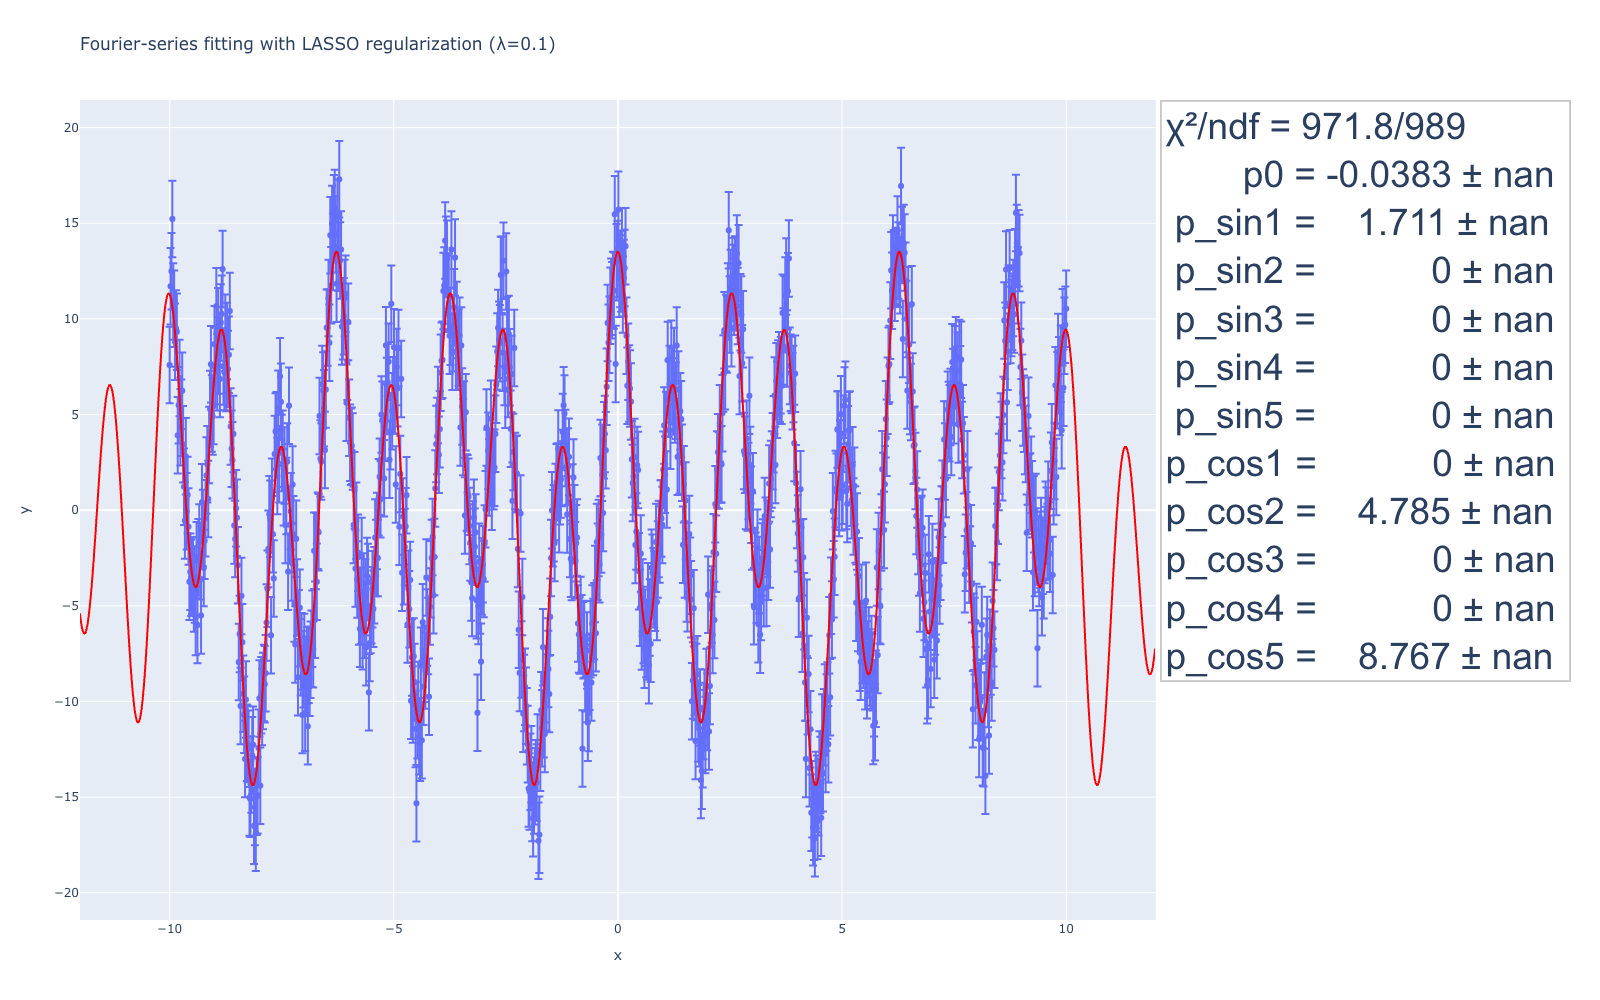
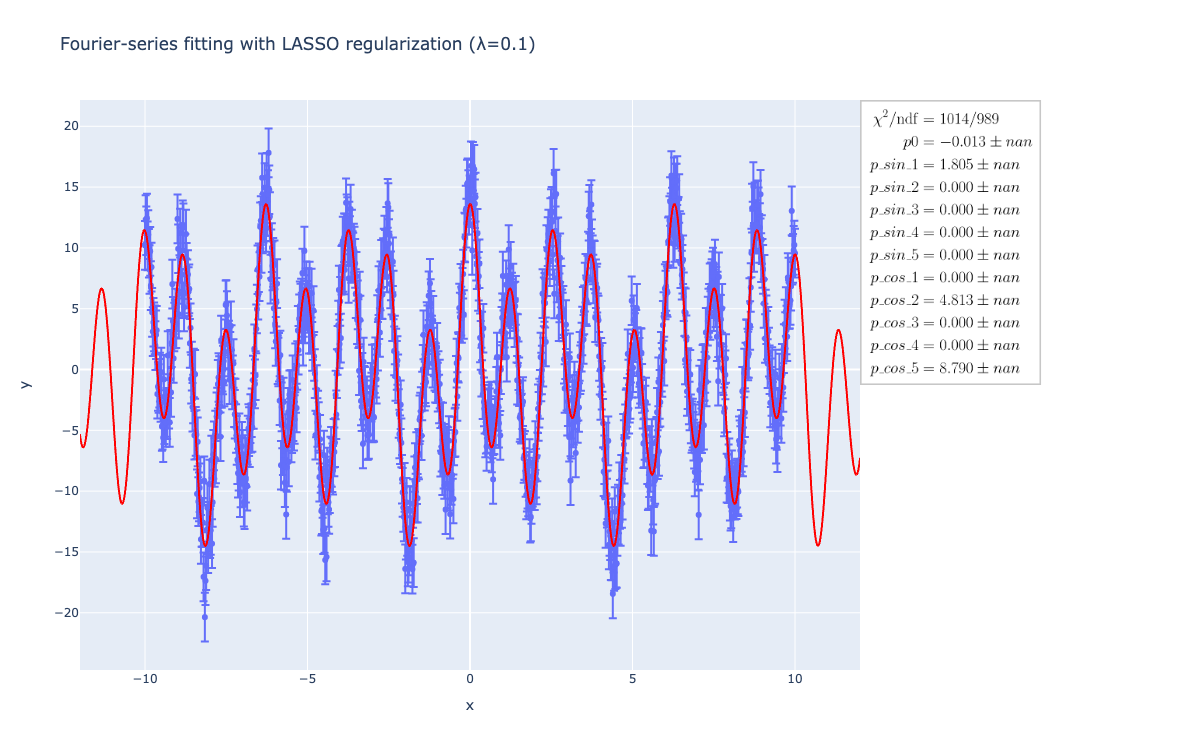
Updated /sample_images/*.png Fixed minor bugs

Changed region(s): [[0.0308, 0.0307, 0.9867, 0.92]]

diff --git a/sample_images/generate_sample_images.py b/sample_images/generate_sample_images.py
@@ -1,0 +1,70 @@
+import numpy as np
+import plotly.express as px
+import standard_fit.plotly.express as sfpx
+import scipy.stats
+
+
+print("y = -2x + 1")
+np.random.seed(1000)
+
+x = np.linspace(-10, 10, 150)
+y_sigma = [2] * len(x)
+y = -2 * x + 1 + np.random.normal(0, y_sigma)
+fig = px.scatter(x=x, y=y, error_y=y_sigma)
+sfpx.fit(fig, "pol1")
+fig.write_image("pol1.png", width=1200, height=750)
+
+
+print("y = 2sin(x) + 5cos(2x) + 9cos(5x)")
+np.random.seed(1000)
+
+x = np.linspace(-10, 10, 1000)
+y_sigma = [2] * len(x)
+y = 2 * np.sin(x) + 5 * np.cos(2 * x) + 9 * np.cos(5 * x) + np.random.normal(0, y_sigma)
+
+fig = px.scatter(title="Fourier-series fitting", x=x, y=y, error_y=y_sigma)
+sfpx.fit(fig, "fourier5", annotation_kwargs=dict(inside=False))
+fig.write_image("fs.png", width=1200, height=750)
+
+fig = px.scatter(title="Fourier-series fitting with LASSO regularization (λ=0.1)", x=x, y=y, error_y=y_sigma)
+sfpx.fit(fig, "fourier5", annotation_kwargs=dict(inside=False),
+         fit_kwargs=dict(linear_regression_kwargs=dict(lasso_lambda=0.1)))
+fig.write_image("fs_lasso.png", width=1200, height=750)
+
+
+print("Gaussian x ~ N(5, 2)")
+np.random.seed(1000)
+
+x = np.random.normal(5, 2, size=1_000_000)
+fig = sfpx.histogram(x=x, fit_type="gaussian")
+fig.write_image("gaus.png", width=1200, height=750)
+
+
+print("Gaussian x ~ N(5, 2) (Unbinned Maximum Likelihood fit)")
+np.random.seed(1000)
+
+x = np.random.normal(5, 2, size=1_000)
+fig = sfpx.histogram(x=x, fit_type="gaussian", umlf=True, histnorm="probability density")
+fig.write_image("gaus_umlf.png", width=1200, height=750)
+
+
+print("2D Gaussian x ~ N([10, -10], [[10, 5], [5, 10]])")
+np.random.seed(1000)
+
+xv, yv = np.meshgrid(np.linspace(0, 20, 30), np.linspace(-20, 0, 30))
+x = np.stack((xv.flatten(), yv.flatten()), axis=-1)
+
+mean = [10, -10]
+cov = [
+    [10, 5],
+    [5, 10]
+]
+error_y = [0.001] * len(x)
+
+y = scipy.stats.multivariate_normal.pdf(x, mean, cov) + np.random.normal(0, error_y)
+
+fig = sfpx.scatter_3d(
+    x=x[:, 0], y=x[:, 1], z=y, error_z=error_y, fit_type="gaussian2d",
+    annotation_kwargs=dict(display_matrix=True)
+)
+fig.write_image("gaus2d.png", width=1200, height=750)

diff --git a/standard_fit/standard_fit.py b/standard_fit/standard_fit.py
@@ -89,7 +89,7 @@ def to_numpy(fit_results):
         fit_results = np.array(fit_results)
         mask = None
 
-    fit_results["is_multivariate"].compressed()
+    # fit_results["is_multivariate"].compressed()
     base_fit_result_type = get_fit_result_dtype([])
 
     if mask is not None:
@@ -349,8 +349,19 @@ def fit(x, y, fit_type, error_x=None, error_y=None, parameter_error=None, fix_pa
             raise ValueError(f"{fit_type} not defined")
 
     if error_x is None and error_y is None:
-        def fcn(p):
-            return np.sum((y - fit_func(x, *p)) ** 2)
+        if fit_type == "gaussian":
+            print("Use default error_y following poisson dist for Gaussian fitting")
+
+            sel = y > 0
+            y = y[sel]
+            x = x[sel]
+
+            def fcn(p):
+                y_hat = fit_func(x, *p)
+                return np.sum(((y - y_hat) / np.sqrt(y)) ** 2)
+        else:
+            def fcn(p):
+                return  np.sum((y - fit_func(x, *p)) ** 2)
     elif error_x is not None and error_y is not None:
         print("* Both error_x and error_y have been specified.")
         raise NotImplementedError

diff --git a/standard_fit/plotly/util.py b/standard_fit/plotly/util.py
@@ -94,7 +94,12 @@ def get_fit_trace(result, x, n_points=None, log_x=False, flip_xy=False, showlege
         fit_type, params, _, _, _, x_range, y_range, *_, is_multivariate = result
 
     x = np.asarray(x)
-    x = x[np.isfinite(x)]
+    if x.ndim == 1:
+        x = x[np.isfinite(x)]
+    elif x.ndim == 2:
+        x = x[np.isfinite(x).any(axis=-1)]
+    else:
+        raise NotImplementedError
 
     if is_multivariate:
         if n_points is None:
@@ -187,7 +192,10 @@ def add_annotation(
             x0, x1 = subplot.xaxis.domain
             y0, y1 = subplot.yaxis.domain
 
-    param_names = regression.get_parameter_names(fit_type, is_multivariate)
+    if hasattr(params, "dtype"):
+        param_names = params.dtype.names
+    else:
+        param_names = regression.get_parameter_names(fit_type, is_multivariate)
 
     def cast(s):
         table = {

diff --git a/setup.py b/setup.py
@@ -2,7 +2,7 @@ from setuptools import setup, find_packages
 
 setup(
     name='standard_fit',
-    version='4.3.4',
+    version='4.4.0',
     description='',
     author='yomura',
     author_email='yomura@hoge.jp',
@@ -10,8 +10,6 @@ setup(
     packages=find_packages(),
     install_requires=[
         "iminuit >= 2.0.0",
-        # "jax",
-        # "jaxlib",
         "scipy",
         "plotly_utility @ git+https://github.com/yomura-yomura/plotly_utility",
         "numpy_utility @ git+https://github.com/yomura-yomura/numpy_utility",

diff --git a/standard_fit/plotly/express/scatters.py b/standard_fit/plotly/express/scatters.py
@@ -35,6 +35,6 @@ def scatter_3d(df=None, x=None, y=None, z=None, error_z=None, fit_type=None, fit
     fig = px.scatter_3d(df, x=x, y=y, z=z, error_z=error_z, **kwargs).update_traces(marker_size=marker_size)
 
     if fit_type is not None:
-        fit(fig, fit_type, 1, 1, 1, fit_stats=fit_stats, annotation_kwargs=annotation_kwargs, **fit_kwargs)
+        fit(fig, fit_type, 1, 1, fit_stats=fit_stats, annotation_kwargs=annotation_kwargs, **fit_kwargs)
 
     return fig

diff --git a/README.rst b/README.rst
@@ -129,7 +129,8 @@ Nonlinear Regression
     fig = sfpx.scatter_3d(
         x=x[:, 0], y=x[:, 1], z=y, error_z=error_y, fit_type="gaussian2d",
         annotation_kwargs=dict(display_matrix=True)
-    ).show()
+    )
+    fig.show()
 
 
 .. image:: sample_images/gaus2d.png
